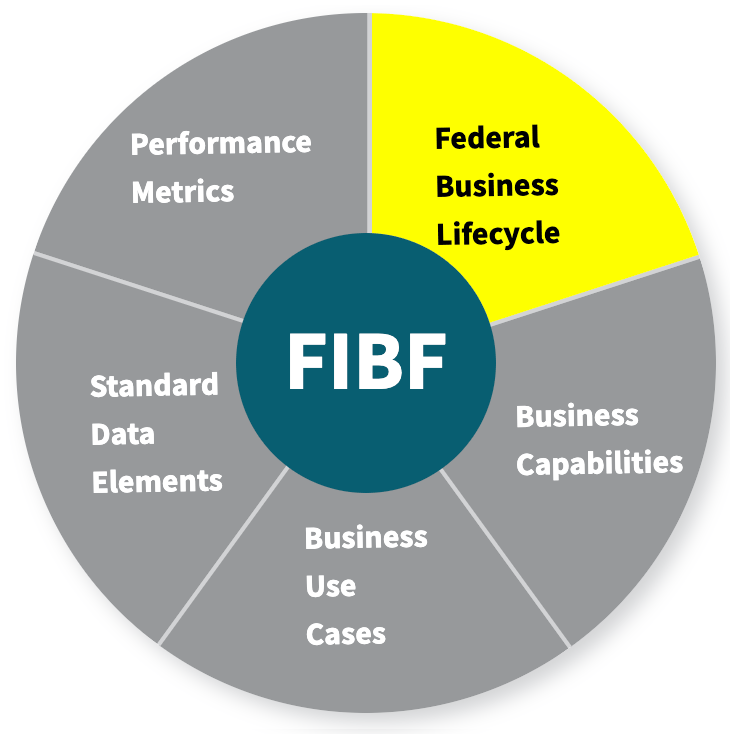
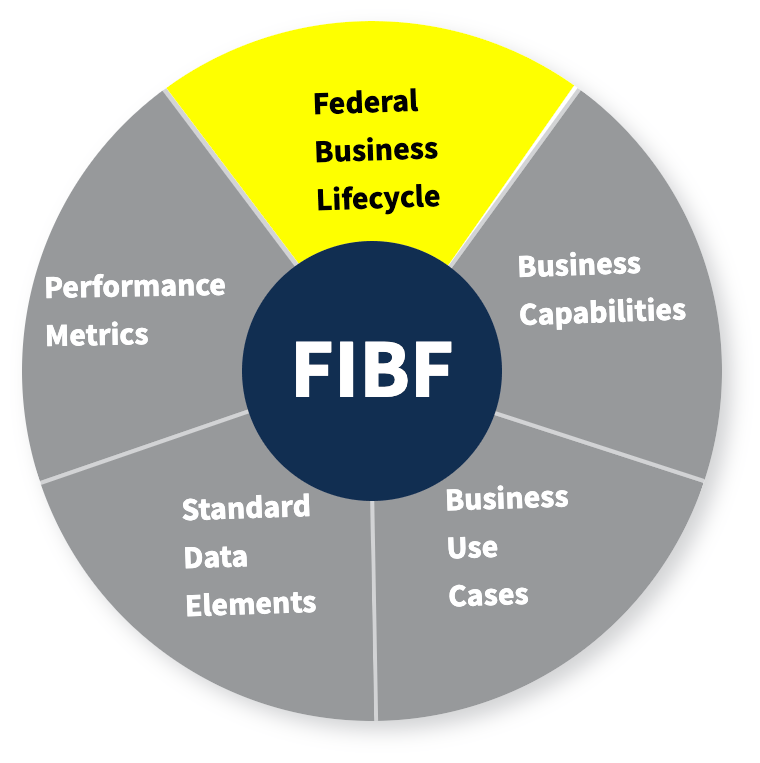
updating images and colors

diff --git a/_pages/fibf.html b/_pages/fibf.html
@@ -12,31 +12,31 @@ title: Federal Integrated Business Framework
 <section>
     <div class="usa-hero clearfix " style="background-image: url('{{ site.baseurl }}/assets/images/homepage-update-image-2.png');background-repeat:no-repeat">
         <div class="grid-container">
-            <div class="usa-width-whole hero-content">
-                <center>
+            <div class="usa-width-whole hero-content text-center">
+
                 <h1 style="color:white">Federal Integrated Business Framework</h1>
                 <p style="color:#ffffff;font-size:25px;">What is the Federal Integrated Business Framework (FIBF)?</p>
                 <p style="color:white">The FIBF is a model that enables the Federal government to better coordinate and document common business needs across agencies, focusing on outcomes, data, and cross-functional end-to-end business processes. It is the essential first step towards standards that will drive economies of scale and leverage the government’s buying power. </p>
                 <!--a class="usa-button usa-button-secondary " href="#" style="background-color:#e31c3d">FIBF Artifacts</a>-->
-                </center>
+
             </div>
         </div>
     </div>
 </section>
 <section class="usa-section" style="background-color: #f1f1f1; padding-top:30px;padding-bottom:15px">
-    <div class="grid-container">
+    <div class="grid-container text-center">
         <div class="grid-row">
             <div class="tablet:grid-col ">
-                <center> <a class="hvr-sink" href="#fibf-components" style="text-decoration:none;"><p style="color:black;font-weight: bold;">The 5 FIBF<br>Components</p>
-                    <center><p><img src="../assets/images/project-icons/arrow-down.png" alt="The 5 FIBF Components" style="width:35px;"></p></center> </a></center>
+                 <a class="hvr-sink" href="#fibf-components" style="text-decoration:none;"><p style="color:black;font-weight: bold;">The 5 FIBF<br>Components</p>
+                    <p><img src="../assets/images/project-icons/arrow-down.png" alt="The 5 FIBF Components" style="width:35px;"></p> </a>
             </div>
             <div class="tablet:grid-col border-x ">
-                <center><a class=" hvr-sink" href="#end-to-end-business-table" style="text-decoration:none;"><p style="color:black;font-weight: bold;">Business Standards<br> Progress</p>
-                    <center><p><img  src="../assets/images/project-icons/arrow-down.png" alt="End-to-End Business Process" style="width:35px;"></p></center></a></center>
+                <a class=" hvr-sink" href="#end-to-end-business-table" style="text-decoration:none;"><p style="color:black;font-weight: bold;">Business Standards<br> Progress</p>
+                    <p><img  src="../assets/images/project-icons/arrow-down.png" alt="End-to-End Business Process" style="width:35px;"></p></a>
             </div>
             <div class="tablet:grid-col  ">
-                <center><a class="hvr-sink" class="grow " href="#fibf-being-used" style="text-decoration:none;"><p style="color:black;font-weight: bold;">How is the<br>FIBF being used?</p>
-                    <center><p><img  src="../assets/images/project-icons/arrow-down.png" alt="How is the FIBF being used" style="width:35px;"></p></center></a></center>
+                <a class="hvr-sink" class="grow " href="#fibf-being-used" style="text-decoration:none;"><p style="color:black;font-weight: bold;">How is the<br>FIBF being used?</p>
+                    <p><img  src="../assets/images/project-icons/arrow-down.png" alt="How is the FIBF being used" style="width:35px;"></p></a>
             </div>
         </div>
     </div>
@@ -44,10 +44,10 @@ title: Federal Integrated Business Framework
 
 
 
-<section class="usa-section usa-graphic_list " style="background-color: #205493;" id="fibf-components">
+<section class="usa-section usa-graphic_list " style="background-color: #112e51;" id="fibf-components">
     <div class="grid-container">
         <div class="grid-row grid-gap all-std">
-            <div class="tablet:grid-col margin-left-3">
+            <div class="tablet:grid-col desktop:margin-top-7">
                 <img src="{{site.baseurl}}/assets/images/fibf/fibf.plain.png" class="fibf-wheel" alt="fibf wheel">
             </div>
             <div class="tablet:grid-col text-base-lightest">
@@ -260,7 +260,7 @@ title: Federal Integrated Business Framework
 
 <style>
     .usa-table thead th, .usa-prose > table thead th, .usa-table thead td, .usa-prose > table thead td {
-    background-color: #205493;
+    background-color: #112e51;
     color: white;
     padding: 10px 20px;
 }
